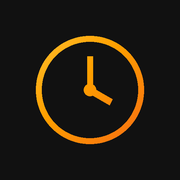
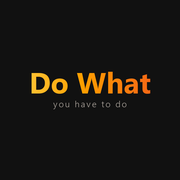
アプリ名を Do What に変更、起動画面・名言の帯・記録中カードを刷新
- ロゴを「Do What ／ you have to do」に、アイコンと iPhone 起動画像を新調
- 起動時はアイコン1個を表示してからフェードアウト
- 名言の帯を余白型（中央揃え・細いグラデ線）に
- 記録中カードを四方グラデ枠＋グラデ数字に

Changed region(s): [[0.1667, 0.1944, 0.8611, 0.8056]]

diff --git a/index.html b/index.html
@@ -3,22 +3,34 @@
 <head>
   <meta charset="utf-8">
   <meta name="viewport" content="width=device-width, initial-scale=1, viewport-fit=cover">
-  <title>Time Stamper</title>
+  <title>Do What</title>
   <meta name="description" content="自分の時間の使い方を記録するアプリ">
-  <meta name="theme-color" content="#0d0d0f">
+  <meta name="theme-color" content="#111111">
   <meta name="apple-mobile-web-app-capable" content="yes">
   <meta name="mobile-web-app-capable" content="yes">
   <meta name="apple-mobile-web-app-status-bar-style" content="black-translucent">
-  <meta name="apple-mobile-web-app-title" content="Time Stamper">
+  <meta name="apple-mobile-web-app-title" content="Do What">
   <link rel="manifest" href="manifest.webmanifest">
   <link rel="icon" href="icons/icon-192.png">
   <link rel="apple-touch-icon" href="icons/apple-touch-icon.png">
+  <link rel="apple-touch-startup-image" media="(device-width: 430px) and (device-height: 932px) and (-webkit-device-pixel-ratio: 3) and (orientation: portrait)" href="icons/splash/1290x2796.png">
+  <link rel="apple-touch-startup-image" media="(device-width: 393px) and (device-height: 852px) and (-webkit-device-pixel-ratio: 3) and (orientation: portrait)" href="icons/splash/1179x2556.png">
+  <link rel="apple-touch-startup-image" media="(device-width: 428px) and (device-height: 926px) and (-webkit-device-pixel-ratio: 3) and (orientation: portrait)" href="icons/splash/1284x2778.png">
+  <link rel="apple-touch-startup-image" media="(device-width: 390px) and (device-height: 844px) and (-webkit-device-pixel-ratio: 3) and (orientation: portrait)" href="icons/splash/1170x2532.png">
+  <link rel="apple-touch-startup-image" media="(device-width: 375px) and (device-height: 812px) and (-webkit-device-pixel-ratio: 3) and (orientation: portrait)" href="icons/splash/1125x2436.png">
+  <link rel="apple-touch-startup-image" media="(device-width: 414px) and (device-height: 896px) and (-webkit-device-pixel-ratio: 3) and (orientation: portrait)" href="icons/splash/1242x2688.png">
+  <link rel="apple-touch-startup-image" media="(device-width: 414px) and (device-height: 896px) and (-webkit-device-pixel-ratio: 2) and (orientation: portrait)" href="icons/splash/828x1792.png">
+  <link rel="apple-touch-startup-image" media="(device-width: 360px) and (device-height: 780px) and (-webkit-device-pixel-ratio: 3) and (orientation: portrait)" href="icons/splash/1080x2340.png">
+  <link rel="apple-touch-startup-image" media="(device-width: 375px) and (device-height: 667px) and (-webkit-device-pixel-ratio: 2) and (orientation: portrait)" href="icons/splash/750x1334.png">
+  <link rel="apple-touch-startup-image" media="(device-width: 414px) and (device-height: 736px) and (-webkit-device-pixel-ratio: 3) and (orientation: portrait)" href="icons/splash/1242x2208.png">
+  <link rel="apple-touch-startup-image" media="(device-width: 440px) and (device-height: 956px) and (-webkit-device-pixel-ratio: 3) and (orientation: portrait)" href="icons/splash/1320x2868.png">
+  <link rel="apple-touch-startup-image" media="(device-width: 402px) and (device-height: 874px) and (-webkit-device-pixel-ratio: 3) and (orientation: portrait)" href="icons/splash/1206x2622.png">
   <link rel="stylesheet" href="style.css">
 </head>
 <body>
   <div id="app" hidden>
     <header class="topbar">
-      <div class="brand">Time <span>Stamper</span></div>
+      <div class="logo"><span class="logo-main">Do What</span><span class="logo-sub">you have to do</span></div>
       <div class="clock" id="clock"></div>
     </header>
 
@@ -47,7 +59,7 @@
 
   <div id="login" class="login" hidden>
     <div class="login-inner">
-      <div class="brand big">Time <span>Stamper</span></div>
+      <div class="logo big"><span class="logo-main">Do What</span><span class="logo-sub">you have to do</span></div>
       <p class="muted" data-i18n="tagline">自分の時間を、正確に。</p>
       <button id="btn-google" class="btn primary wide" data-i18n="login_google">Google でログイン</button>
       <details class="email-login">
@@ -62,7 +74,7 @@
     </div>
   </div>
 
-  <div id="boot" class="boot">Time <span>Stamper</span></div>
+  <div id="boot" class="boot"><img src="icons/launch.png" alt="Do What"></div>
 
   <div id="modal" class="modal" hidden>
     <div class="sheet" id="sheet"></div>

diff --git a/app.js b/app.js
@@ -83,8 +83,18 @@ const minDay = () => addDays(sod(Date.now()), -BACK_DAYS);
 // ---------- boot ----------
 applyStatic();
 store.onChange(() => render());
+// 起動画面（アイコン1個）は最低0.7秒見せてから、ふわっと消す
+const bootStart = performance.now();
+const hideBoot = () => {
+  const boot = $("#boot");
+  if (boot.hidden || boot.classList.contains("out")) return;
+  setTimeout(() => {
+    boot.classList.add("out");
+    setTimeout(() => (boot.hidden = true), 350);
+  }, Math.max(0, 700 - (performance.now() - bootStart)));
+};
 store.init((user) => {
-  $("#boot").hidden = true;
+  hideBoot();
   $("#login").hidden = !!user;
   $("#app").hidden = !user;
   if (user) maybeShowQuote();
@@ -162,7 +172,7 @@ function renderRecord() {
   const list = clipped(today, addDays(today, 1)).sort((a, b) => b.s - a.s);
 
   el.innerHTML = `
-    ${q ? `<div class="quote-strip">${esc(q.t)}<span class="who">— ${esc(q.a)}</span></div>` : ""}
+    ${q ? `<div class="quote-strip"><p class="q">${esc(q.t)}</p><span class="who">${esc(q.a)}</span></div>` : ""}
     ${longOnes.map((e) => `
       <div class="alert">
         ${esc(t("long_alert", catOf(e.cat).label, hm(e.start)))}
@@ -178,8 +188,7 @@ function renderRecord() {
         const c = catOf(e.cat);
         return `
         <div class="run ${now - e.start >= LONG_MS ? "long" : ""}" style="--c:${c.color}">
-          <div class="name"><span class="dot" style="background:${c.color}"></span>${esc(c.label)}
-            <span class="since">${hm(e.start)}〜</span></div>
+          <div class="name">${esc(c.label)} · ${hm(e.start)}〜</div>
           <div class="timer" data-timer="${e.start}">${timer(now - e.start)}</div>
           <button class="end" data-end="${e.id}">END</button>
           <input class="memo" data-memo="${e.id}" placeholder="${t("memo")}" value="${esc(e.memo)}" enterkeyhint="done">
@@ -498,7 +507,7 @@ function renderSettings() {
       <button class="btn primary wide" id="x-go">${t("export_btn")}</button>
     </div>
 
-    <p class="muted" style="font-size:11px;text-align:center;margin-top:28px">Time Stamper · ${store.mode === "firebase" ? t("sync_cloud") : t("sync_local")}</p>
+    <p class="muted" style="font-size:11px;text-align:center;margin-top:28px">Do What · ${store.mode === "firebase" ? t("sync_cloud") : t("sync_local")}</p>
   `;
 
   const save = (items) => store.saveCategories(items);
@@ -559,7 +568,7 @@ async function exportCsv() {
   const blob = new Blob(["" + lines.join("\r\n")], { type: "text/csv;charset=utf-8" });
   const a = document.createElement("a");
   a.href = URL.createObjectURL(blob);
-  a.download = `TimeStamper_${fromV}_${toV}.csv`;
+  a.download = `DoWhat_${fromV}_${toV}.csv`;
   document.body.appendChild(a);
   a.click();
   setTimeout(() => { URL.revokeObjectURL(a.href); a.remove(); }, 1000);

diff --git a/style.css b/style.css
@@ -331,3 +331,51 @@ input[type=date].in, input[type=datetime-local].in { -webkit-appearance: none; a
 .ptr.ready svg, .ptr.loading svg { stroke: #1a1006; }
 .ptr.loading svg { animation: spin .8s linear infinite; }
 @keyframes spin { to { transform: rotate(360deg); } }
+
+/* ---------- Do What: logo / boot ---------- */
+.logo { display: flex; flex-direction: column; line-height: 1; }
+.logo-main {
+  font-weight: 700; font-size: 18px; letter-spacing: .01em;
+  background: var(--grad); -webkit-background-clip: text; background-clip: text; color: transparent;
+}
+.logo-sub { font-size: 9px; font-weight: 300; letter-spacing: .16em; color: var(--muted); margin-top: 4px; }
+.logo.big { align-items: center; }
+.logo.big .logo-main { font-size: 40px; }
+.logo.big .logo-sub { font-size: 13px; margin-top: 10px; letter-spacing: .2em; }
+.boot img { width: 132px; height: 132px; animation: fade .5s ease-out; }
+
+/* ---------- 名言の帯（余白型） ---------- */
+.quote-strip {
+  margin: 14px 0 4px; padding: 16px 12px 6px; text-align: center;
+  border: 0; border-radius: 0; background: none;
+}
+.quote-strip::before {
+  content: ""; display: block; width: 28px; height: 1px; margin: 0 auto 14px; background: var(--grad);
+}
+.quote-strip .q {
+  margin: 0; font-size: 15px; line-height: 1.8; color: var(--text); letter-spacing: .04em;
+  font-family: "Hiragino Mincho ProN", "Yu Mincho", "YuMincho", "Noto Serif JP", serif;
+}
+.quote-strip .who { display: block; margin-top: 8px; font-size: 11px; color: var(--muted); letter-spacing: .12em; }
+
+/* ---------- 記録中カード（グラデ枠） ---------- */
+.run {
+  grid-template-columns: 1fr auto; gap: 2px 12px; padding: 16px 16px 14px;
+  border: 1px solid transparent; border-radius: 18px; box-shadow: none;
+  background: linear-gradient(var(--surface), var(--surface)) padding-box, var(--grad) border-box;
+}
+.run::before { display: none; }
+.run .name { grid-column: 1 / -1; font-size: 12px; color: var(--muted); letter-spacing: .04em; gap: 0; }
+.run .timer {
+  grid-column: 1; grid-row: 2; font-size: 34px; font-weight: 200; letter-spacing: .02em;
+  background: var(--grad); -webkit-background-clip: text; background-clip: text; color: transparent;
+}
+.run .end {
+  grid-column: 2; grid-row: 2; align-self: center;
+  background: none; border: 0; box-shadow: none; padding: 12px 4px 12px 16px;
+  color: var(--text); font-size: 12px; font-weight: 500; letter-spacing: .22em;
+}
+.run .end:active { opacity: .5; }
+.run .memo { grid-row: 3; background: rgba(255, 255, 255, .04); }
+.boot { z-index: 50; background: var(--bg); transition: opacity .35s ease-out; }
+.boot.out { opacity: 0; pointer-events: none; }

diff --git a/sw.js b/sw.js
@@ -1,7 +1,7 @@
 // ネット優先・つながらないときは保存済みのファイルで起動
-const CACHE = "time-stamper-v4";
+const CACHE = "dowhat-v5";
 const SHELL = ["./", "index.html", "style.css", "app.js", "store.js", "i18n.js", "firebase-config.js", "quotes.js",
-  "manifest.webmanifest", "icons/icon-192.png", "icons/apple-touch-icon.png"];
+  "manifest.webmanifest", "icons/icon-192.png", "icons/apple-touch-icon.png", "icons/launch.png"];
 
 self.addEventListener("install", (e) => {
   e.waitUntil(caches.open(CACHE).then((c) => c.addAll(SHELL)).then(() => self.skipWaiting()));
